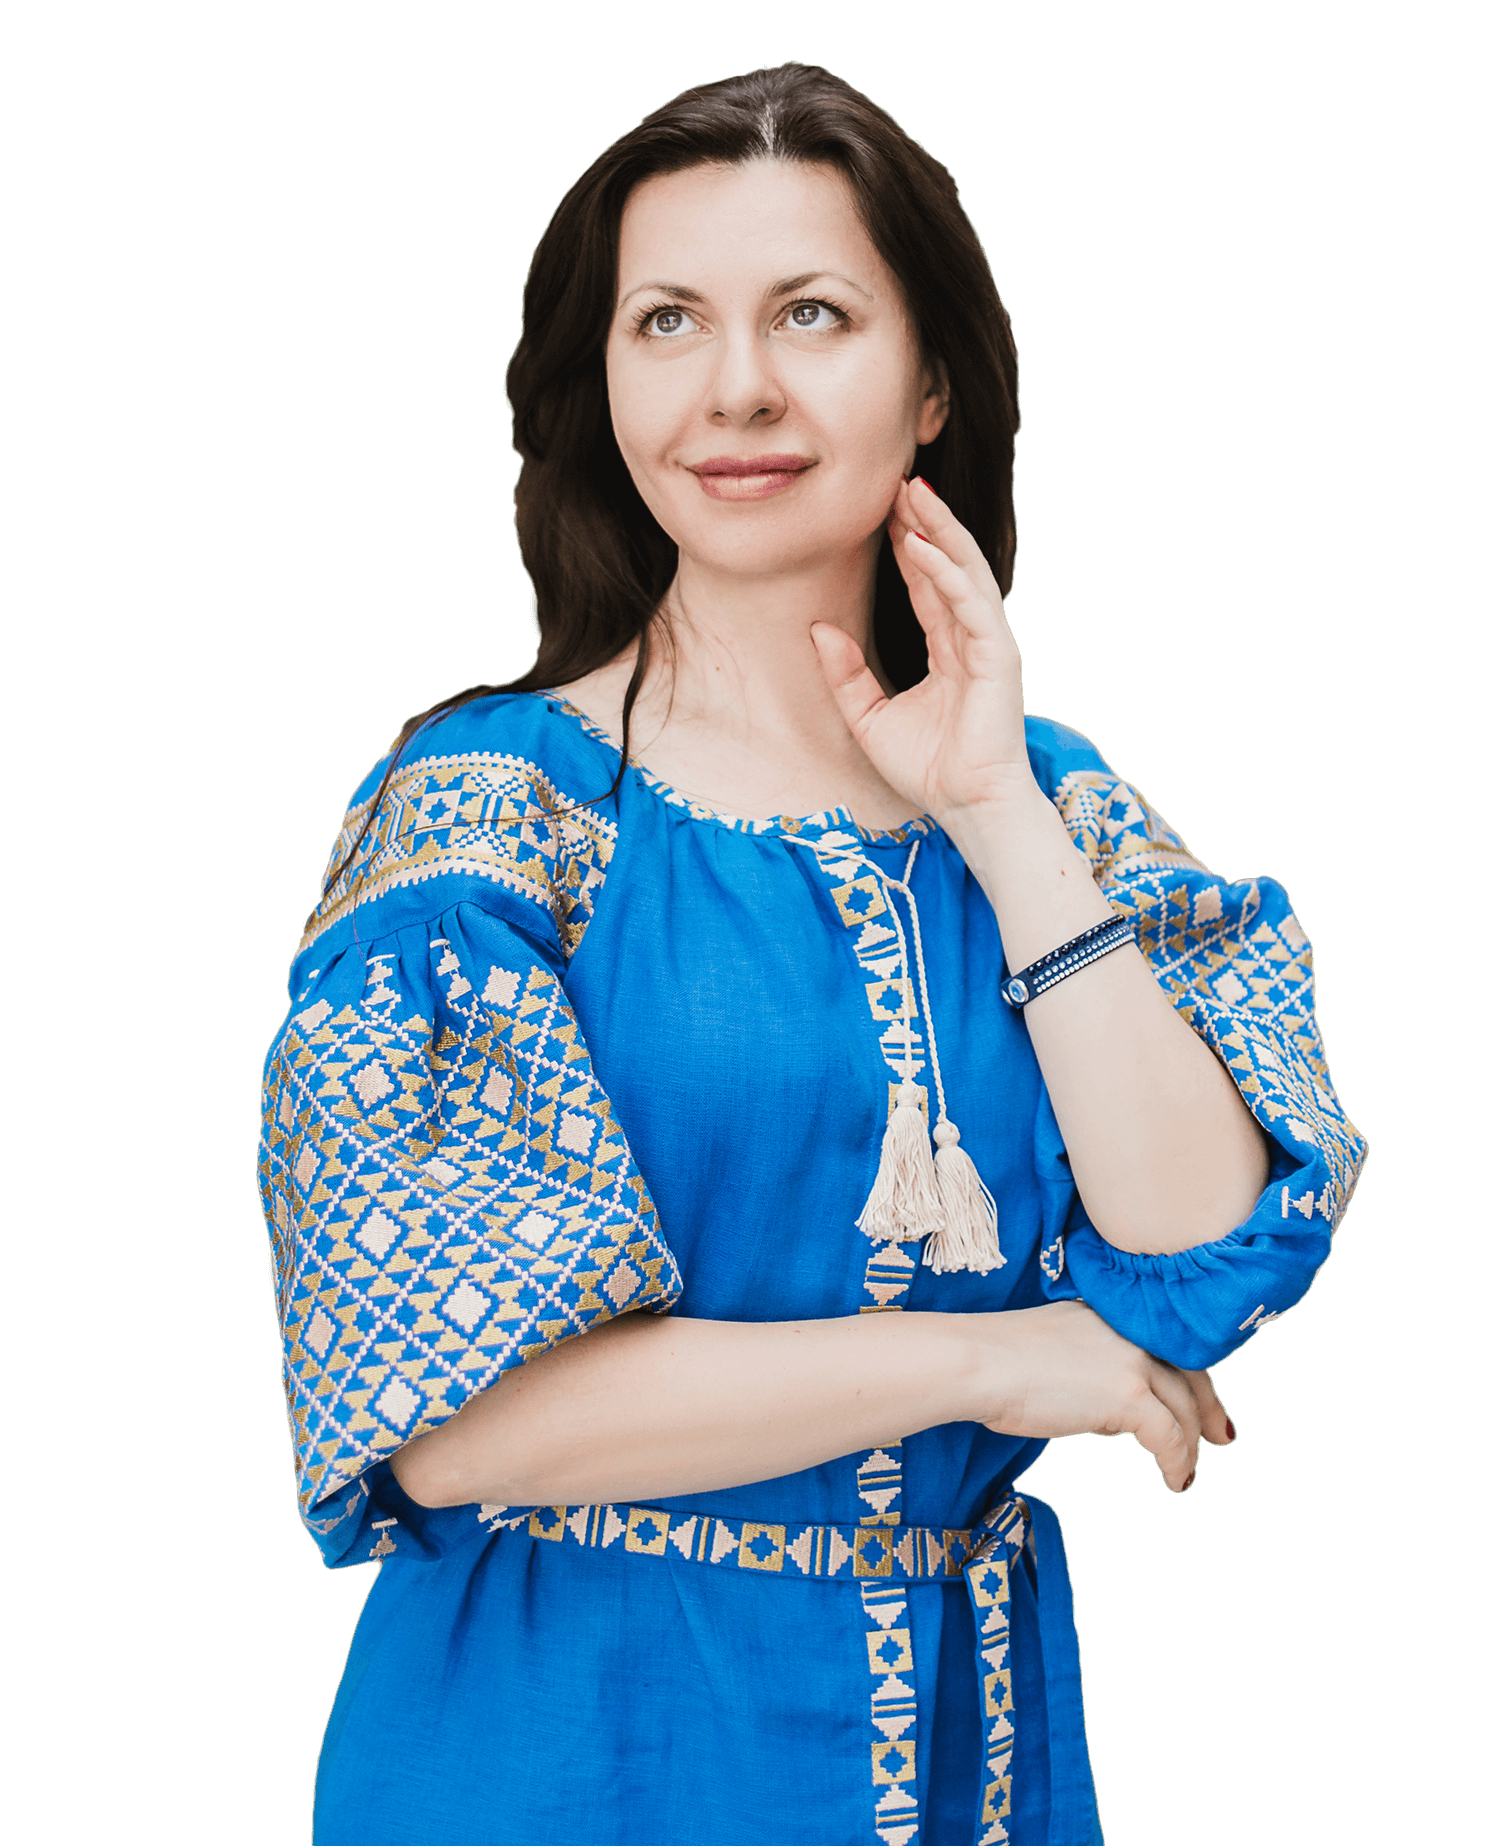
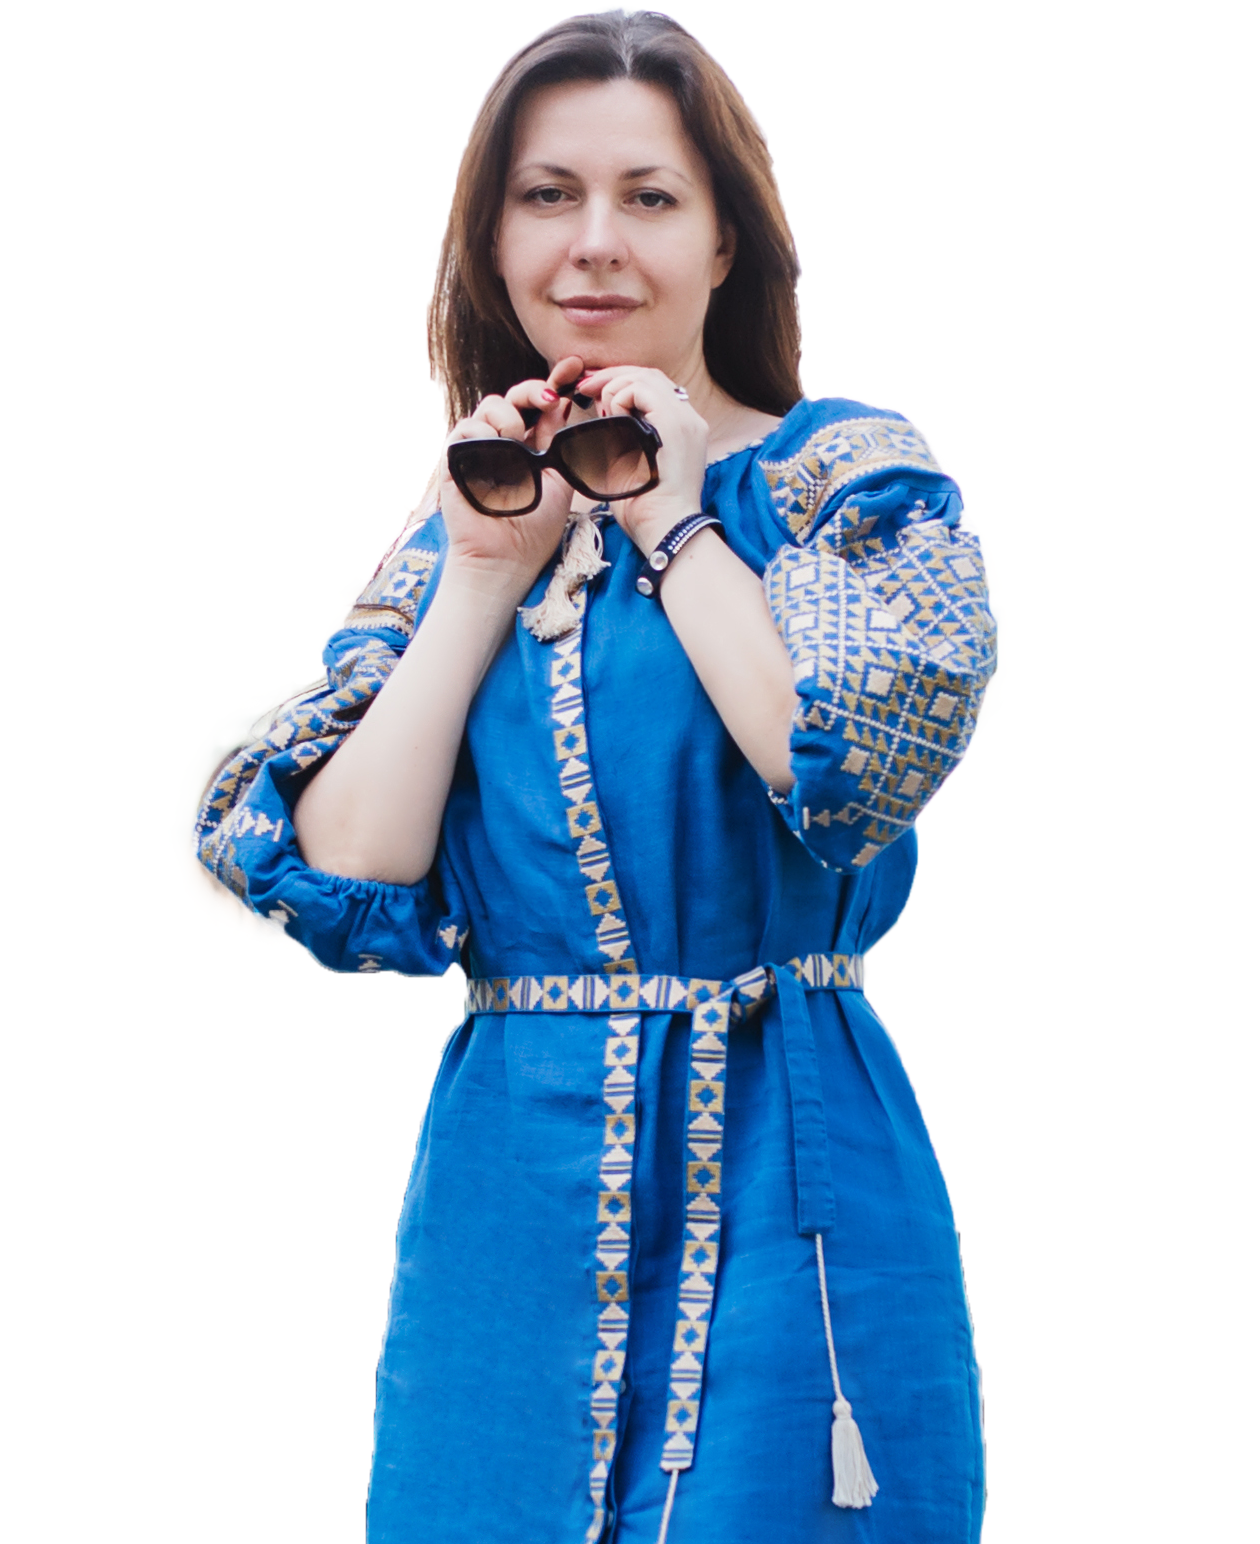
new bg and photo, text edits

diff --git a/index.html b/index.html
@@ -44,13 +44,13 @@
 		</div>
 	</div>
 
-	<header>
+	<header class="bg">
 		<div class="container container_header">
 			<div class="header_text">
 				<h1>Как создать генератор партнёров из интернета*</h1>
 				<div class="video-row video-mobile">
 					<div class="header_text second">
-						<p>Бесплатный онлайн мастер-класс <br> <span> <span class="js-nextDate">15 августа в 18:00 МСК</span></span>
+						<p>Бесплатный онлайн мастер-класс <br> <span> <span class="js-nextDate">27 августа в 18:00 МСК</span></span>
 						</p>
 					</div>
 					<div class="videoWrapper">
@@ -59,16 +59,13 @@
 				</div>
 				<div class="block-book" id="timer">
 					<span>Регистрируйтесь для участия в мастер-классе в течении:<span class="seconds timer_seconds">1</span> секунд</span>
-					<div class="book-cover">
-						<img src="img/book.png" height="100">
-						<p class="min-title">и получите книгу «7 продающих шаблонов для Instagram которые работают»</p>
-					</div>
+					<p>и получите книгу «7 продающих шаблонов для Instagram которые работают»</p>
 				</div>
 				<a href="#" data-reveal-id="zakaz" class="g_button head_btn btn-animate">Зарегистрироваться и получить книгу</a>
 			</div>
 			<div class="video-row">
 				<div class="header_text second">
-					<p>Бесплатный онлайн мастер-класс <br> <span> <span class="js-nextDate">15 августа в 18:00 МСК</span></span>
+					<p>Бесплатный онлайн мастер-класс <br> <span> <span class="js-nextDate">27 августа в 18:00 МСК</span></span>
 					</p>
 				</div>
 				<div class="videoWrapper">
@@ -105,20 +102,19 @@
 				</div>
 
 				<div class="row programm__row">
-					<div class="col-12 col-sm-6 programm-item programm-item_1">
+					<div class="col-12 col-sm-4 programm-item programm-item_1">
 						<div class="programm-item__inner">
 							<div class="programm-item__info">
 								<div class="programm-item__info-cube">
-									<p class="programm-item__info-date programm-item__info-date_2"><span>15 АВГУСТА</span></p>
+									<p class="programm-item__info-date programm-item__info-date_2"><span>27 АВГУСТА</span></p>
 									<p class="programm-item__info-title">Как создать генератор партнёров из интернета</p>
 									<p class="programm-item__info-subtitle programm-item__info-subtitle_2">Спикер:</p>
 									<p class="programm-item__info-name">ЛЮДМИЛА ШАШКОВА</p>
 								</div>
 							</div>
 							<div class="programm-item__content">
-								<p class="programm-item__content-title programm-item__content-title_2">Вы узнаете:</p>
+								<p class="programm-item__content-title programm-item__content-title_2">На мастер-классе разберем:</p>
 								<ul class="list programm-item__list programm-item__list_2">
-									<li>Как создать систему вовлечения партнеров в свой бизнес</li>
 									<li>Как получать заинтересованных кандидатов и не тратить время на “зевак” в интернете</li>
 									<li>Как познакомить кандидата со своим бизнесом, чтобы к вам на консультацию приходили уже заинтересованные люди</li>
 									<li>Что такое бизнес “налегке,” когда у тебя больше нет проблем с тем, где брать людей в бизнес</li>
@@ -126,7 +122,7 @@
 							</div>
 						</div>
 					</div>
-					<div class="col-12 col-sm-6 programm-item programm-item_1">
+					<div class="col-12 col-sm-4 programm-item programm-item_1">
 						<div class="programm-item__inner">
 							<img src="./img/speaker-shashkova.png" alt="Как создать системную онлайн-школу на своих или чужих знаниях" class="programm-item__image programm-item__image_1">
 						</div>
@@ -135,7 +131,7 @@
 			</div>
 		</section>
 	</div>
-	<section id="maps" class="maps">
+	<section id="maps" class="maps bg">
 		<div class="container">
 			<div class="section_title">Пришло время <span>раскрыть все карты</span></div>
 			<p>На мастер-классе Вы получите простую пошаговую технологию, как создать поток партнёров из интернета, даже если Вы:*</p>
@@ -176,7 +172,7 @@
 				</div>
 				<div class="for-title">
 					<div class="title">
-						Автор мастер-класса <span class="d-none d-lg-inline">😃</span>
+						О СПИКЕРЕ<br> Людмила Шашкова
 					</div>
 					<p></p>
 				</div>
@@ -317,7 +313,7 @@
 				</div>
 			</div>
 		</section> -->
-		<section class="section end" id="section-end">
+		<section class="section end bg" id="section-end">
 			<div class="container end__container">
 				<div class="section__header end__header">
 					<h3 class="section__title end__header-title"><span class="end__header-title-highlight">Пройдя вебинар вы</span></h3>
@@ -356,7 +352,8 @@
                     <div class="col-12 col-md-6 p-0 order-1 order-2">
                         <div class="hb-right">
                             <div id="timer2">
-                                <p>Регистрируйтесь для участия<br class="d-sm-none"> в онлайн-интенсиве в
+																<p><b>ЧТ, 27 августа | 18:00 (по МСК)</b><br class="d-sm-none"></p>
+                                <p><b>РЕГИСТРИРУЙТЕСЬ НА ВЕБИНАР</b> в
                                     течении:<br><span class="seconds timer_seconds">1</span> секунд</p>
                                 <div class="min-title">
                                     и получите книгу<br class="d-sm-none"> «7 продающих шаблонов<br class="d-inline d-md-none"> для Instagram которые работают»

diff --git a/scss/lift.scss b/scss/lift.scss
@@ -1972,7 +1972,8 @@ font-weight: bold;
     }
 
     .end-item__title {
-        font-size: 14px
+        font-size: 14px;
+        color: white;
     }
 
     @media (max-width:767px) {
@@ -2909,66 +2910,27 @@ font-weight: 900;;
         }
     }
 
-    .programm:after,
-    .programm:before {
-        position: absolute;
-        top: -10%;
-        width: 450px;
-        height: 450px;
-        content: "";
-        -webkit-filter: blur(120px);
-        filter: blur(120px);
-        -webkit-border-radius: 100%;
-        border-radius: 100%
-    }
-
     @media (min-width:1025px) {
 
-        .programm:after,
-        .programm:before {
-            width: 600px;
-            height: 600px;
-            -webkit-filter: blur(170px);
-            filter: blur(170px)
-        }
-
         .section.programm {
-            padding-top: 150px;
+            padding-top: 80px;
         }
     }
 
     .programm {
         overflow: hidden;
-        color: #fff;
-        background-color: #0e0e0e
-    }
-
-    .programm:before {
-        left: -5%;
-        background-color: #00bde3
-    }
-
-    @media (min-width:1025px) {
-        .programm:before {
-            left: -15%
-        }
-    }
-
-    .programm:after {
-        right: -5%;
-        background-color: #f70f31
-    }
-
-    @media (max-width:767px) {
-        .programm:after {
-            top: auto;
-            bottom: 0
-        }
-    }
-
-    @media (min-width:1025px) {
-        .programm:after {
-            right: -5%
+        color: #000;
+        background-color: #fff;
+        .programm__container {
+          box-shadow: 0 40px 90px rgba(0, 0, 0, 0.15);
+          border-radius: 15px;
+          border: 1px solid rgba(0, 0, 0, 0.05);
+          background-color: #ffffff;
+          overflow: hidden;
+          background: #ffffff;
+          position: relative;
+          z-index: 2;
+          padding: 40px 0px 0px 40px;
         }
     }
 
@@ -2977,7 +2939,7 @@ font-weight: 900;;
             -webkit-box-pack: justify;
             -webkit-justify-content: space-between;
             -ms-flex-pack: justify;
-            justify-content: space-between
+            justify-content: space-around;
         }
     }
 
@@ -3062,7 +3024,8 @@ font-weight: bold;
 
     .programm-item__inner {
         position: relative;
-        z-index: 1
+        z-index: 1;
+        margin-bottom: 60px;
     }
 
     .programm-item__image {
@@ -3289,7 +3252,8 @@ font-weight: 900;
     @media (max-width:767px) {
         .programm-item__content {
             position: relative;
-            z-index: 2
+            z-index: 2;
+            padding-right: 10px;
         }
     }
 
@@ -4386,11 +4350,12 @@ font-weight: 900;
           padding: 20px 29px 20px 40px;
           p {
             font-size: 16px;
-            line-height: 24px;
+            line-height: 28px;
             font-weight: 400;
+            padding-bottom: 10px;
           }
           .min-title {
-            margin: 10px 0 20px 20px;
+            margin: 0px 0 25px 0px;
             font-size: 24px;
             line-height: 27px;
             font-weight: 600;
@@ -4412,7 +4377,7 @@ font-weight: 900;
             background: #1e82ff;
             text-align: center;
             padding: 24px 0px;
-            margin: 0 auto;
+            margin: 0 0;
             text-decoration: none;
             cursor: pointer;
             border-radius: 5px;

diff --git a/scss/style.scss b/scss/style.scss
@@ -143,8 +143,8 @@ body.f-nav .top_container {
     text-decoration: underline;
 }
 
-header {
-    background-image: url(../img/header_bg.jpg);
+.bg {
+    background-image: url(../img/bg.jpg);
     background-repeat: no-repeat;
     background-position: center;
     background-size: cover;
@@ -153,17 +153,17 @@ header {
     // margin-bottom: 130px;
     padding-bottom: 150px;
 }
-header::before {
+.bg::before {
     position: absolute;
     width: 100%;
     height: 100%;
     top: 0;
     content: '';
     display: block;
-    z-index: 2;
+    z-index: 0;
     background: url(../img/grad.png) center no-repeat;
     background-size: cover;
-    opacity: 0.2;
+    opacity: 0.7;
 }
 
 header .container {
@@ -522,7 +522,6 @@ button.g_button.disabled:hover {
 #maps {
     color: #fff;
     // margin-bottom: 160px;
-    background: url('../img/maps.jpg') no-repeat center center;
      background-size: cover;
     padding: 80px 0 150px 0;
     position: relative;
@@ -530,18 +529,6 @@ button.g_button.disabled:hover {
         z-index: 3;
         position: sticky;
     }
-}
-.maps::before {
-    position: absolute;
-    width: 100%;
-    height: 100%;
-    top: 0;
-    content: '';
-    display: block;
-    z-index: 2;
-    background: url(../img/grad.png) center no-repeat;
-    background-size: cover;
-    opacity: 0.2;
 }
 #maps .section_title {
     margin-bottom: 30px;
@@ -947,8 +934,8 @@ header {
     }
 
     .video-row {
-        max-width: 500px;
-        min-width: 500px;
+        max-width: 560px;
+        min-width: 560px;
         margin: 0 auto;
         @media (max-width:767px){
           display: none;
@@ -1023,10 +1010,6 @@ header {
         @media (max-width:767px){
           font-size: 18px;
         }
-    }
-    .book-cover {
-      display: flex;
-      margin-top: 15px;
     }
     .min-title {
       margin: 10px 0 20px 20px;

diff --git a/scss/responsive.scss b/scss/responsive.scss
@@ -130,8 +130,8 @@
     }
 
     header .container_header {
-        margin-top: 0;
-        margin-bottom: 0;
+        margin-top: -50px;
+        margin-bottom: -90px;
     }
 
     .header_text {
